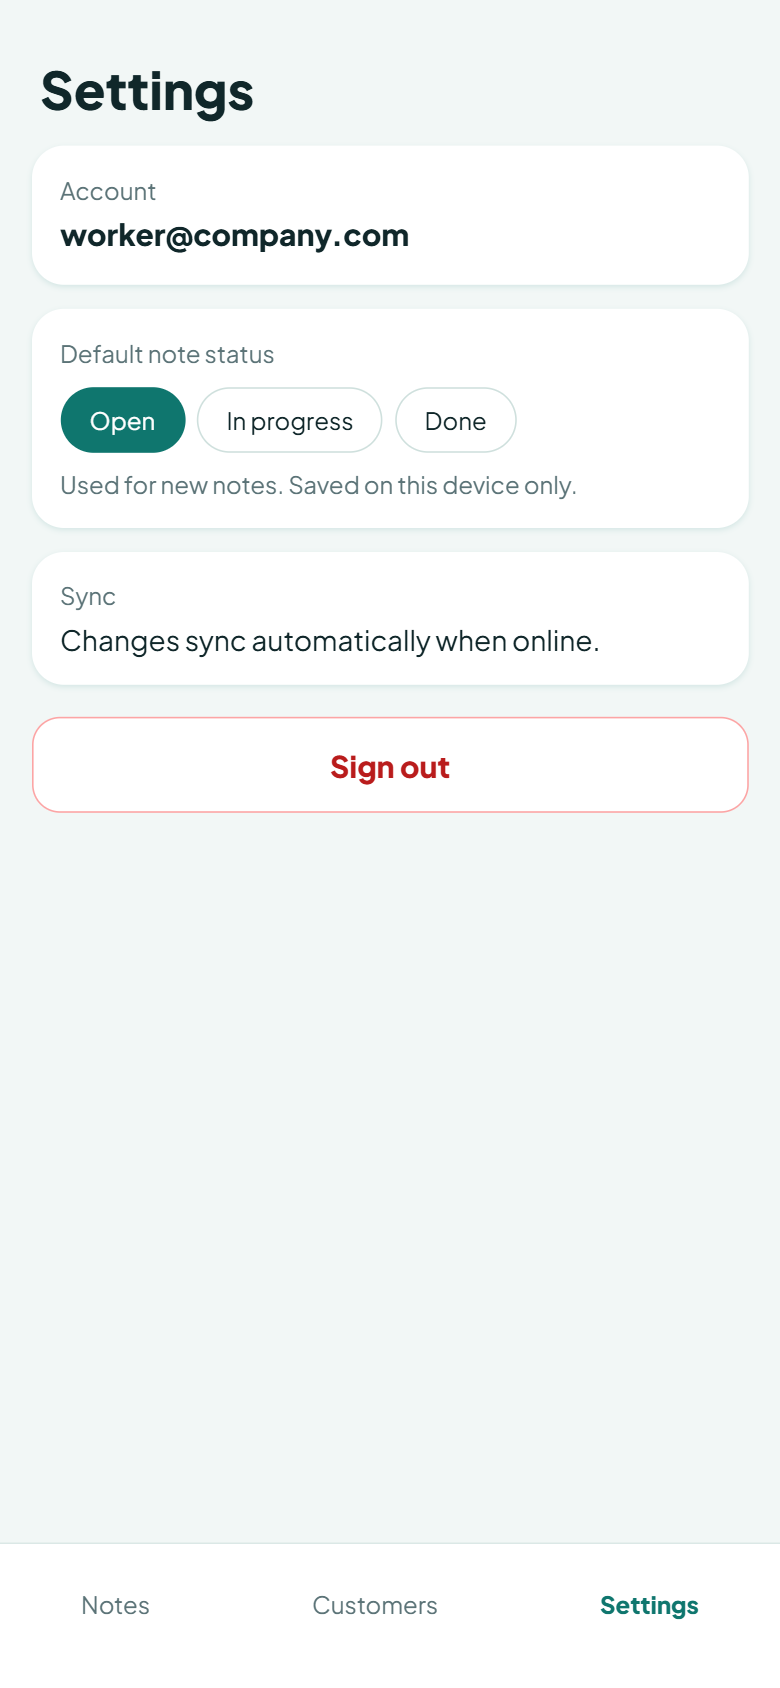
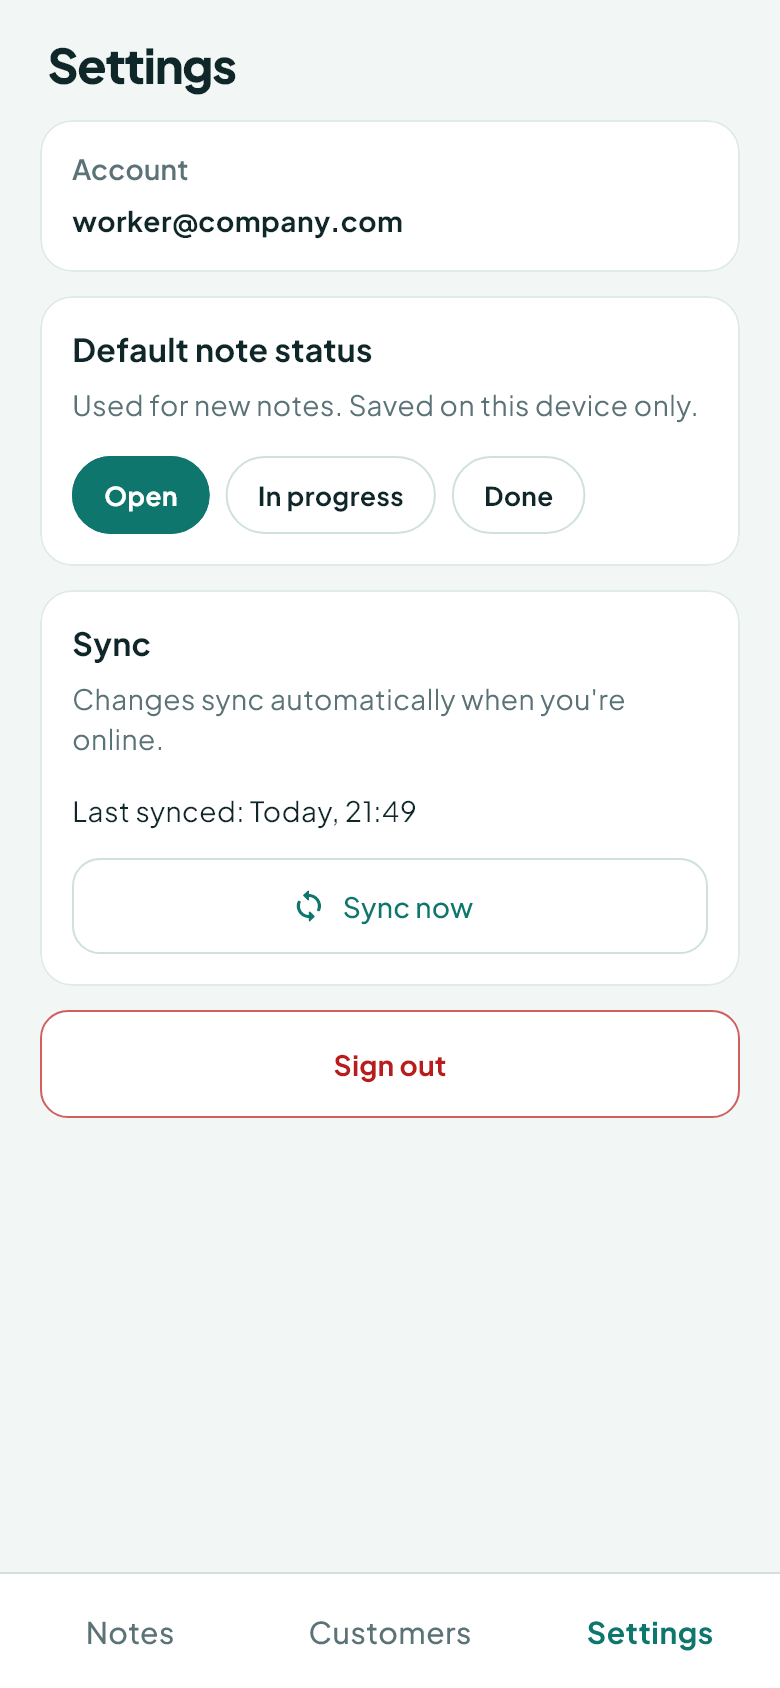
docs: polish README and evaluator instructions

diff --git a/README.md b/README.md
@@ -16,6 +16,27 @@
 
 An offline-first mobile app for recording field observations during site visits. Customers, sites, and notes are written to local SQLite immediately and synchronized with a Spring Boot API whenever connectivity is available.
 
+> [!IMPORTANT]
+> The free Render service can take **30–60 seconds** to wake after being idle. Open the [health endpoint](https://field-notes-3.onrender.com/api/health) first and wait for `{"status":"UP"}` before evaluating the app.
+
+## Evaluating this project in 3 minutes
+
+1. Open the [live API health endpoint](https://field-notes-3.onrender.com/api/health) to wake the backend.
+2. Install the release APK and register a new account.
+3. Create a customer → site → note.
+4. Enable airplane mode and edit the note; the change is saved locally.
+5. Reconnect and watch the pending count return to zero and **Last synced** update.
+6. Open **Settings → Default note status**, change it, restart the app, and confirm it persists.
+
+### Install the Android APK
+
+**Release:** _Pending publication — this placeholder will be replaced with the GitHub Release link after Task 5._
+
+1. Download `FieldNotes-v1.0.apk` from the Release.
+2. If Android asks, allow installs from unknown sources for your browser or file manager.
+3. Install and open Field Notes.
+4. Select **Register** to create an evaluator account.
+
 ## Features
 
 - Register / sign in with JWT; data is isolated per account (foreign IDs return 404)
@@ -91,7 +112,7 @@ Target: **PostgreSQL on Neon** + **Spring Boot on Render** (Docker) + release AP
 |---|---|
 | **Live backend URL** | `https://field-notes-3.onrender.com` |
 | **Health** | `GET https://field-notes-3.onrender.com/api/health` → `{"status":"UP"}` |
-| **APK** | From the repo root: `.\scripts\build-release-apk.ps1` — the release APK already talks to the public URL. Attach `mobile/build/app/outputs/flutter-apk/FieldNotes-v1.0.apk` to a GitHub Release |
+| **APK** | **Release link pending Task 5.** Build from the repo root with `.\scripts\build-release-apk.ps1`; the release APK targets the public HTTPS API. |
 | **Video demo** | [Play MP4](docs/demo/field-notes-demo.mp4) · [Watch on YouTube](https://youtu.be/3YPGbu-IQuc) |
 | **Demo access** | Create an account from the Register tab; no shared credentials are required |
 | **Wake-up** | Render **free** web services sleep after ~15 minutes idle and can take **30–60 seconds** to wake. The first request is slow; it is not a crash. Check [Render pricing](https://render.com/pricing) for current free-tier terms. |
@@ -110,6 +131,8 @@ Render env vars (never commit the real values):
 | `PHOTO_DIR` | `/app/uploads` |
 
 Photos are files under `PHOTO_DIR`. On free Render disks they **disappear when the instance restarts**. Notes and other data stay in Neon. CORS is off; a mobile app does not need it.
+
+Flyway applies the database schema automatically on the first successful backend boot against Neon.
 
 Release APKs use HTTPS only (`usesCleartextTraffic` is not set on the main manifest). A local release keystore can be configured with `mobile/android/key.properties`; this file and all keystores are ignored by Git.
 
@@ -193,14 +216,13 @@ Output: `mobile/build/app/outputs/flutter-apk/FieldNotes-v1.0.apk`.
 
 | Command | Result |
 |---|---|
-| `flutter analyze` (in `mobile/`) | No issues found |
-| `flutter test` | All 29 tests passed |
-| `mvn test` (`backend/mvnw.cmd test`) | 8 tests, 0 failures (Testcontainers + PostgreSQL 16), including concurrent sync locking |
-| `.\scripts\build-release-apk.ps1` | Built `FieldNotes-v1.0.apk` (65.0MB) pointed at `https://field-notes-3.onrender.com` |
+| `flutter analyze` (in `mobile/`) | No issues found (13 October 2026) |
+| `flutter test` | All 38 tests passed (13 October 2026) |
+| `mvn test` (`backend/mvnw.cmd test`) | Not re-run in this final verification pass |
+| `.\scripts\build-release-apk.ps1` | Not run yet in this final release pass |
 
 ## Known limitations
 
-- The public API is `https://field-notes-3.onrender.com`; Flyway creates tables on the first successful boot against Neon.
 - Release HTTP is not open to arbitrary LAN IPs; prefer HTTPS or a debug build for Wi-Fi demos.
 - Default note status is device-wide SharedPreferences (by design: “saved on this device only”), not synced.
 - Photos are stored on the API filesystem (`PHOTO_DIR`). On free Render they can vanish on restart; metadata stays in Postgres.
